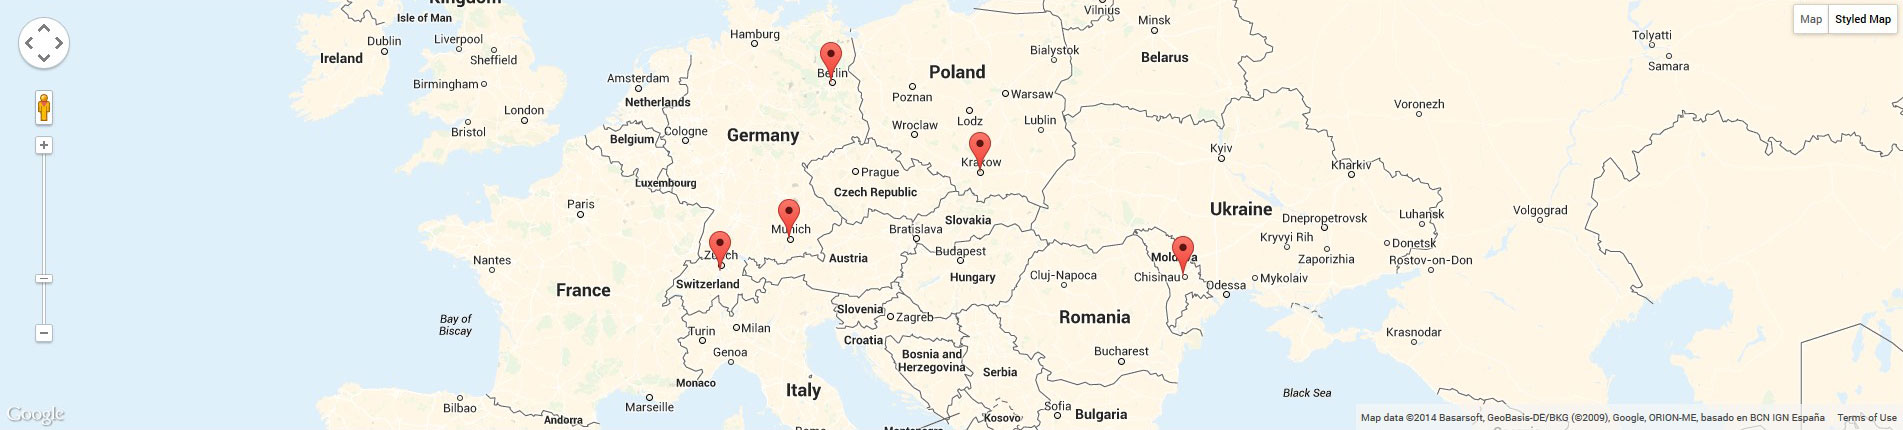
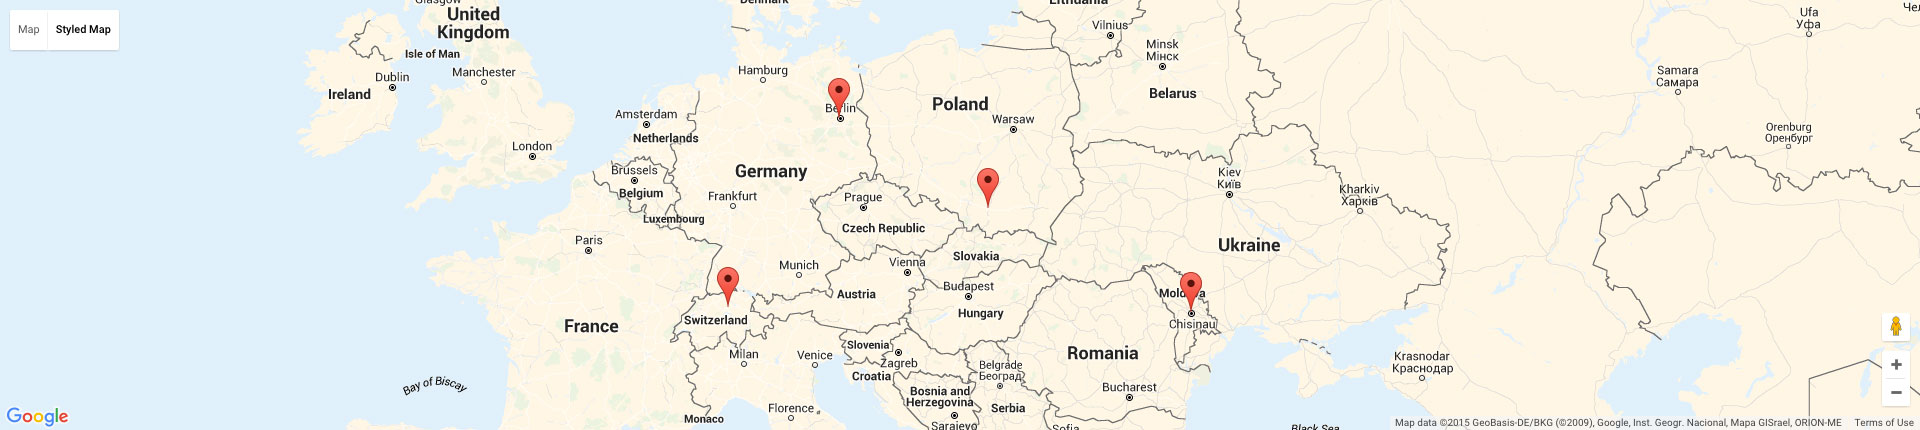
Remove Munchen from map and impressum

diff --git a/app/scripts/services.js b/app/scripts/services.js
@@ -214,10 +214,6 @@ angular.module('winifySiteServices', [])
                   sendEvent('S3MapDEBelin');
                   break;
 
-                case 'munchen':
-                  sendEvent('S3MapDEMunich');
-                  break;
-
                 case 'krakow':
                   sendEvent('S3MapPL');
                   break;
@@ -240,7 +236,6 @@ angular.module('winifySiteServices', [])
           var infoTexts = {
             'schweiz': '<p class="info-window">Winify AG - ' + $rootScope.l10n.countries[0][$rootScope.lang] + '<br/>Alte Steinhauserstrasse 1<br/>6330 Cham</p>',
             'berlin': '<p class="info-window">Winify AG - ' + $rootScope.l10n.countries[1][$rootScope.lang] + '<br/>Stendaler Strasse 4<br/>10559 Berlin</p>',
-            'munchen': '<p class="info-window">Winify AG - ' + $rootScope.l10n.countries[1][$rootScope.lang] + '<br/>Fürstenrieder Straße 99<br/>80686 München</p>',
             'poland': '<p class="info-window">Winify Sp. z o.o. - ' + $rootScope.l10n.countries[2][$rootScope.lang] + '<br/>ul. Syrokomli 22/6<br/>30-102 Kraków</p>',
             'moldova': '<p class="info-window">Winify SRL. - ' + $rootScope.l10n.countries[3][$rootScope.lang] + '<br/>str. A. Puskin 47/1, of 4,<br/>MD-2005 Chișinău</p>'
           };
@@ -249,8 +244,6 @@ angular.module('winifySiteServices', [])
           addMarker([47.1861859, 8.473614], infoTexts.schweiz, 'cham');
           // Deutschland Berlin
           addMarker([52.533502, 13.349253], infoTexts.berlin, 'berlin');
-          // Deutschland Munchen
-          addMarker([48.131939, 11.503241], infoTexts.munchen, 'munchen');
           // Poland
           addMarker([50.057118, 19.92484], infoTexts.poland, 'krakow');
           // Moldova

diff --git a/Gruntfile.js b/Gruntfile.js
@@ -69,7 +69,7 @@ module.exports = function (grunt) {
       options: {
         port: 9010,
         // Change this to '0.0.0.0' to access the server from outside.
-        hostname: '192.168.3.134',
+        hostname: '0.0.0.0',
         livereload: 35729
       },
       livereload: {
@@ -460,7 +460,7 @@ module.exports = function (grunt) {
       all: {
         options: {
           snapshotPath: '<%= yeoman.dist %>/snapshots/',
-          sitePath: 'http://winify.lc/',
+          sitePath: 'http://winify.com/',
           fileNamePrefix: '',
           msWaitForPages: 2000,
           removeScripts: true,

diff --git a/app/index.html b/app/index.html
@@ -89,7 +89,7 @@
 	<script src="bower_components/angular-route/angular-route.js"></script>
 	<script src="bower_components/angular-touch/angular-touch.js"></script>
 	<script src="bower_components/angular-sanitize/angular-sanitize.js"></script>
-	<script src="bower_components/jqueryui/ui/jquery.ui.effect.js"></script>
+	<script src="bower_components/jqueryui/ui/jquery-ui.js"></script>
 	<script src="bower_components/gumby/js/libs/gumby.min.js"></script>
 	<!-- endbower -->
 	<!-- endbuild -->

diff --git a/app/views/impressum.html b/app/views/impressum.html
@@ -28,12 +28,6 @@
 			10559 Berlin<br/>
 			+49 177 - 88 458 12
 		</p>
-
-		<p>
-			<b>{{l10n.impressum.munich[lang]}}</b><br/>
-			Fürstenrieder Straße 99<br/>
-			80686 München
-		</p>
 		<br/>
 	</div>
 	<div class="three columns">

diff --git a/app/styles/main.scss b/app/styles/main.scss
@@ -16,6 +16,7 @@ body {
 }
 
 // bower:scss
+@import "../bower_components/gumby/sass/gumby.scss";
 // endbower
 
 @import "mixins";
